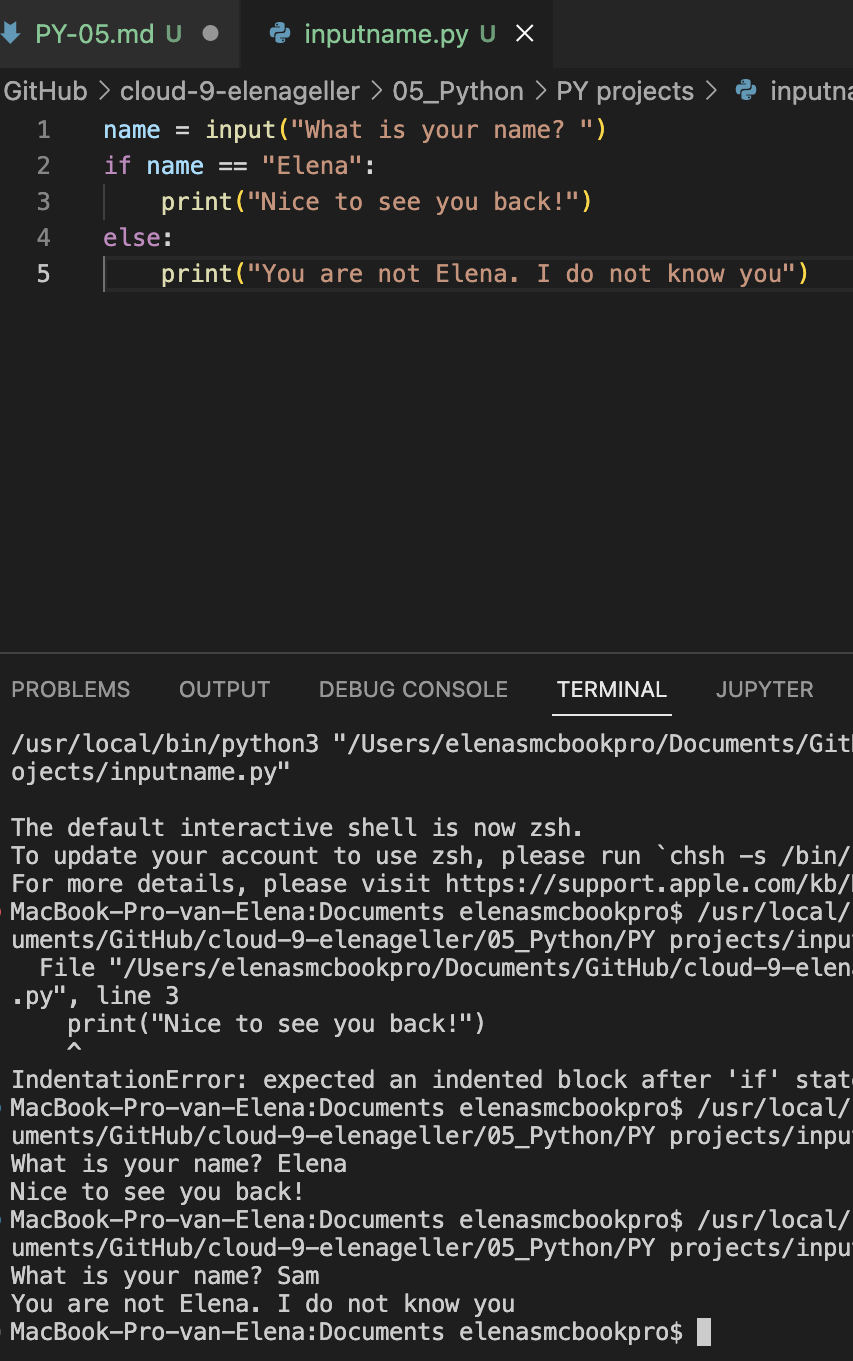
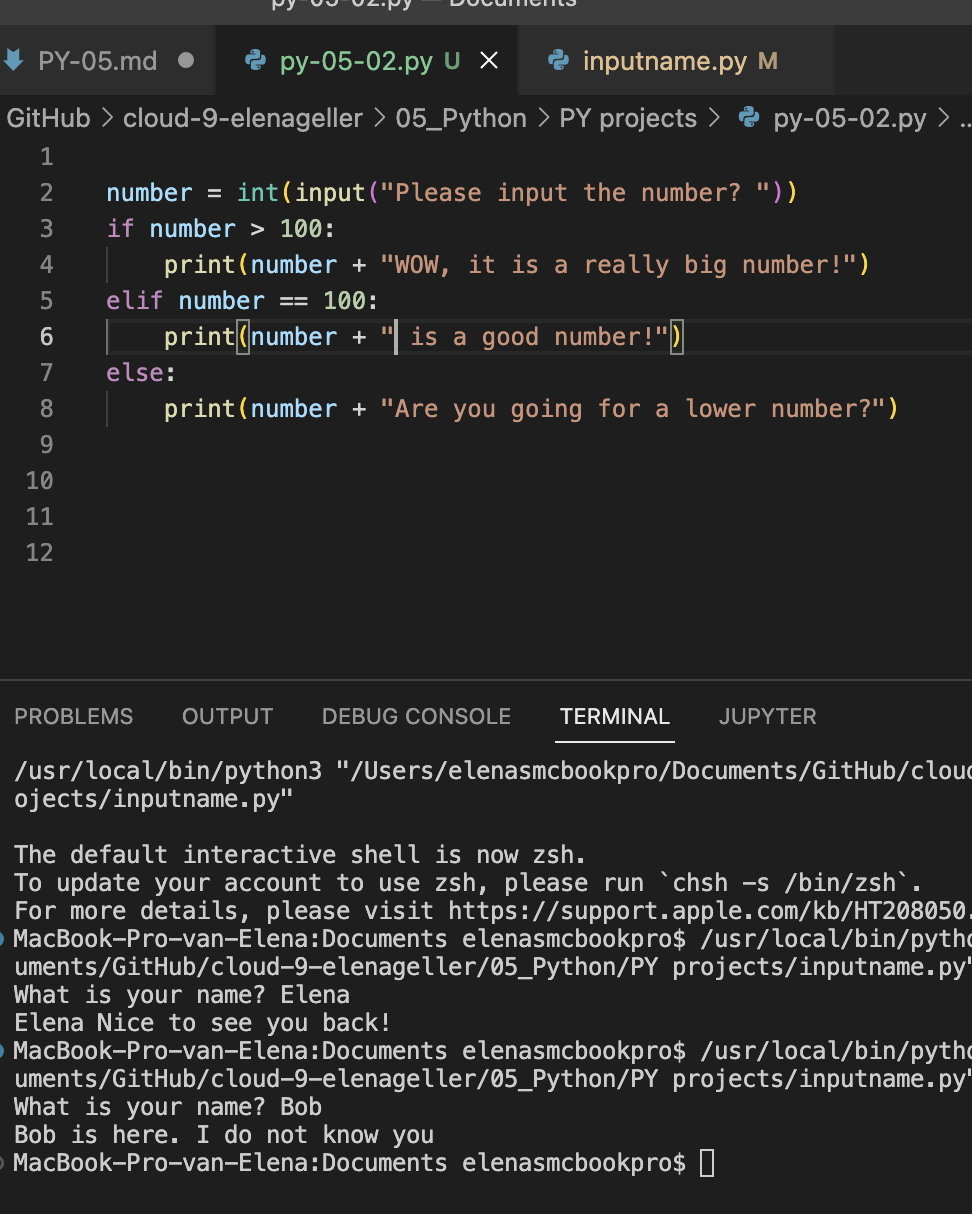
update 05

diff --git a/05_Python/PY projects/py-05-02.py b/05_Python/PY projects/py-05-02.py
@@ -1,0 +1,11 @@
+
+number = int(input("Please input the number? "))
+if number > 100:
+    print(number, "WOW, it is a really big number!")
+elif number == 100:
+    print(number, " is a good number!")
+else:
+    print(number, "Are you going for a lower number?")    
+
+
+

diff --git a/05_Python/PY projects/inputname.py b/05_Python/PY projects/inputname.py
@@ -1,5 +1,5 @@
 name = input("What is your name? ")
 if name == "Elena":
-    print("Nice to see you back!")
+    print(name + " Nice to see you back!")
 else:
-    print("You are not Elena. I do not know you")
+    print(name + " is here. I do not know you")
